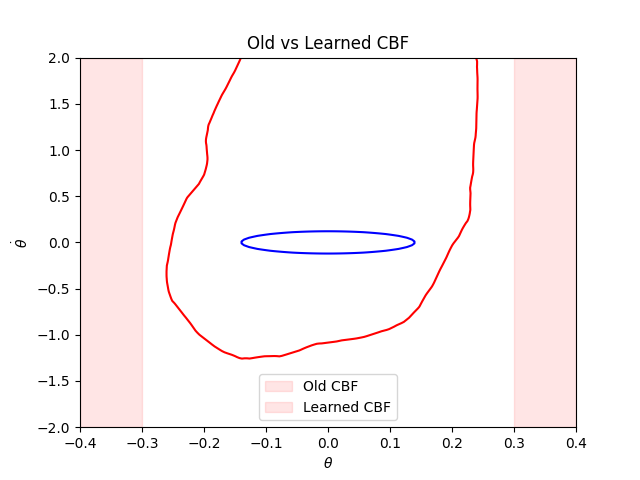
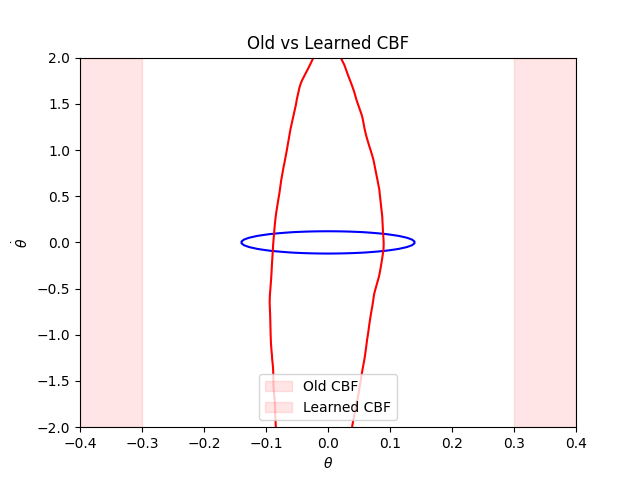
-

diff --git a/hw1/bonus/bonus_plot.py b/hw1/bonus/bonus_plot.py
@@ -4,7 +4,7 @@ import matplotlib.pyplot as plt
 from neural_clbf.controllers import NeuralCBFController
 import os
 
-from bonus_part1 import state_limits, safe_mask
+from bonus_part1 import state_limits, safe_mask, f, g
 from bonus_part3 import plot_and_eval_xts
 from bonus_part2 import u_qp
 
@@ -21,7 +21,17 @@ def normalize(x):
     return x_norm
 
 h_new = lambda x: -neural_controller.V_with_jacobian(normalize(x))[0]
-dhdx_new = lambda x: -neural_controller.V_with_jacobian(normalize(x))[1].squeeze(1)
+
+def dhdx_new(x):
+    x_norm = normalize(x)
+    V, grad = neural_controller.V_with_jacobian(x_norm)
+    grad = grad.squeeze(1)
+
+    # chain rule correction
+    grad[:,0] = grad[:,0] / 0.4
+    grad[:,1] = grad[:,1] / 2.0
+
+    return -grad
 
 # =========================
 # OLD CBF (analytical)
@@ -119,10 +129,12 @@ def simulate(x0):
         u_ref = u_nominal(x, t)
         u = u_qp(x, h_new(x), dhdx_new(x), u_ref, gamma=0.3, lmbda=1e6)
 
-        x = x + dt * (torch.stack([
-            x[:,1],
-            10*torch.sin(x[:,0]) + u.squeeze()/2.0
-        ], dim=1))
+        fx = f(x).squeeze(-1)   # [B, 2]
+        gx = g(x)               # [B, 2, 1]
+
+        gu = torch.bmm(gx, u.unsqueeze(-1)).squeeze(-1)  # [B, 2]
+
+        x = x + dt * (fx + gu)
 
         traj.append(x.clone())
         u_hist.append(u.clone())
